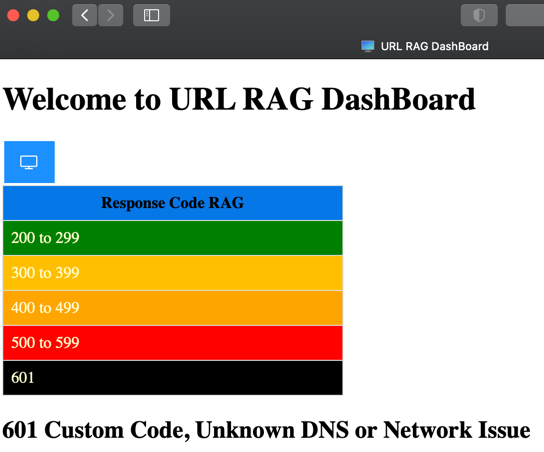
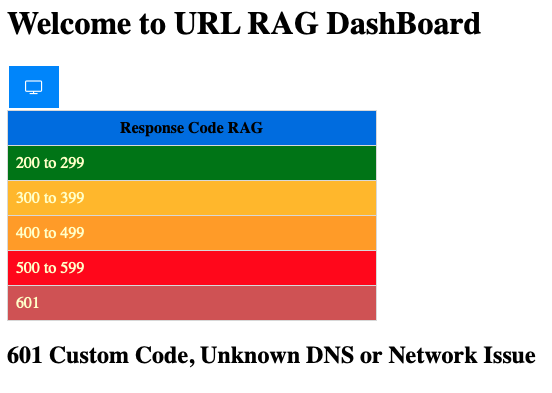
Fix/images (#10)
* fixing image issues

* images with pagination

diff --git a/app/templates/index.html b/app/templates/index.html
@@ -56,7 +56,7 @@ tr.brown td {
    padding: 8px;
 }
 tr.black td {
-  background-color: black;
+  background-color: #CD5C5C;
   border: 1px solid #ddd;
    padding: 8px;
 }

diff --git a/app/static/css/status_url.css b/app/static/css/status_url.css
@@ -11,5 +11,5 @@ tr.brown td {
   background-color: #FFA500;
 }
 tr.black td {
-  background-color: black;
+  background-color: #CD5C5C;
 }
